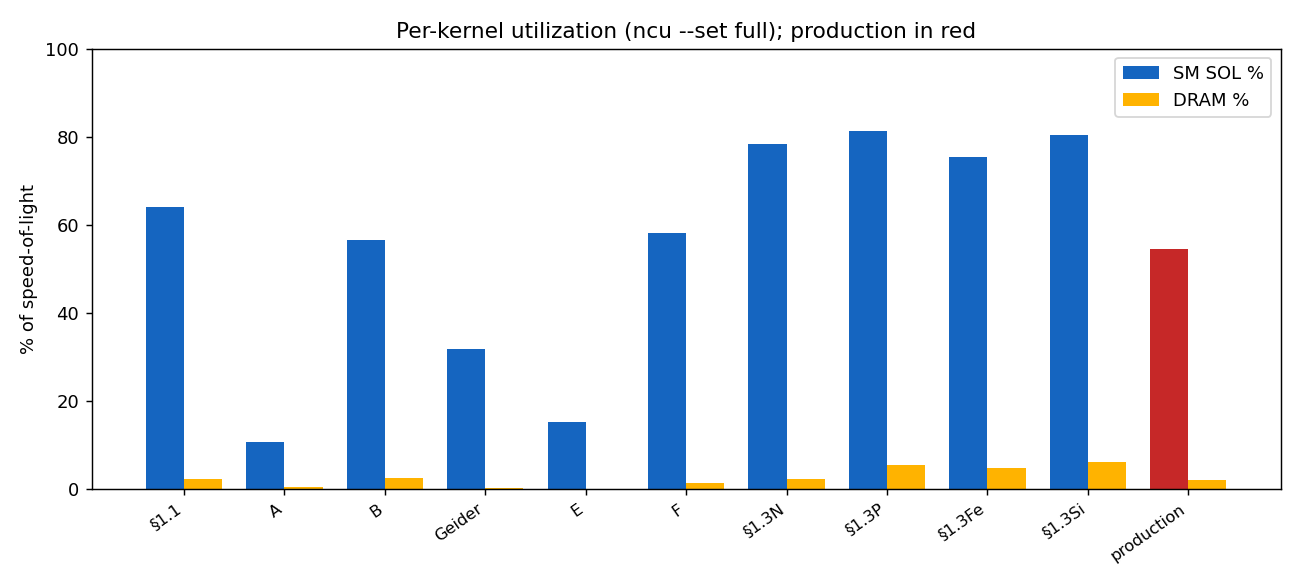
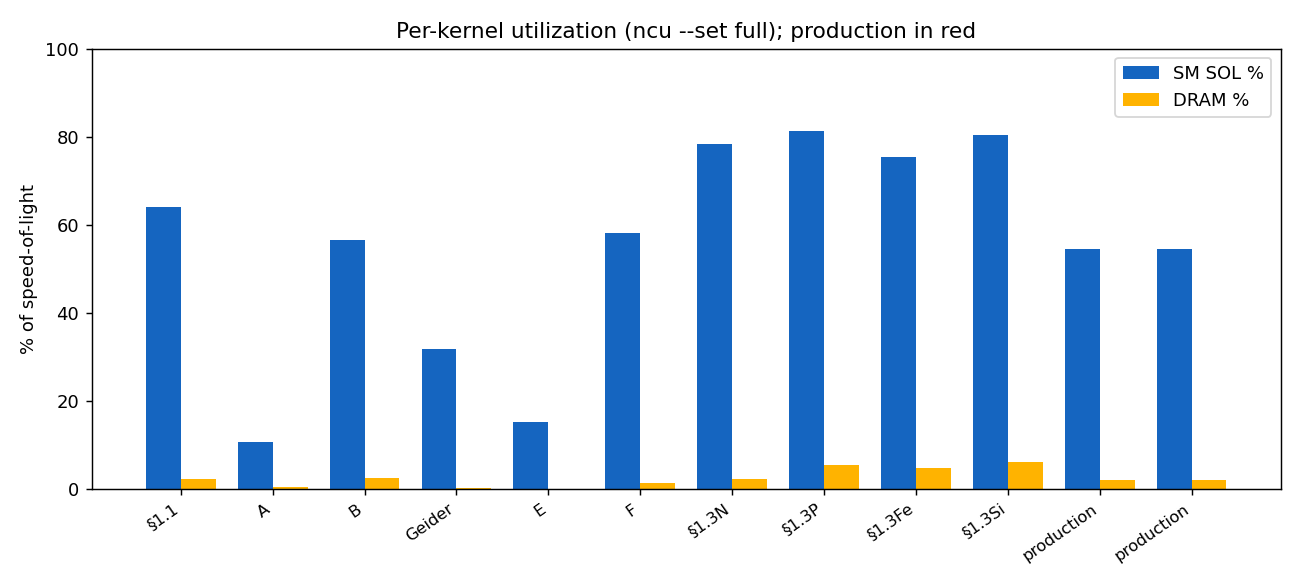
make_figs.py: infer ported-ness from data (per-era correct figures) — fixes s2_production figs
Bug introduced last commit: regenerating s2_production figs with the zoo-era
config (PORTED_SECTIONS += zooplankton) wrongly marked zoo as a green "ported
win" in the PRODUCTION-era figure, where zoo actually ran on CPU (+8% slower).

Root cause: PORTED_SECTIONS was GLOBAL config, but each archive dir is a
historical snapshot. Fix: a section is "ported" iff GPU/CPU < 0.7, INFERRED FROM
THE SPEED DATA. Now each archive's figure self-reflects its own era —
s2_production correctly shows zoo un-ported; s2_zoo shows it ported. No global
list to drift. Verified both: s2_production (growth 4.64×, prod 7.84×, zoo +8%
un-ported), s2_zoo (growth 4.40×, zoo 8.37×, prod 7.37×).

diff --git a/profiling/make_figs.py b/profiling/make_figs.py
@@ -31,10 +31,12 @@ SECTION_MAP = {
     # archive's CSV (profiled at its line of the day) still resolves: §2 prod=F1L4707, post-zoo=F1L4748
     "F1L4707": "production", "F1L4748": "production",
 }
-HIGHLIGHT = "zoo"                # the kernel this PR adds
-# Which mpp_clock sections are ON GPU so far (grows by one PR each port). Names match parse_speed's keys.
-# Un-ported sections still run on CPU in the GPU build -> expected flat/slower, NOT a win.
-PORTED_SECTIONS = {"phytoplankton growth", "production loop", "zooplankton"}
+HIGHLIGHT = "zoo"                # the kernel this PR adds (cosmetic: which SOL bar is red)
+# A section is "ported" iff its GPU time is well below CPU. INFERRED FROM THE DATA (not a global list) so
+# each archive's figure reflects ITS OWN era — e.g. s2_production's fig correctly shows zoo as un-ported,
+# while s2_zoo's shows it ported. Ported sections run 4-8x (ratio ~0.1-0.25); un-ported are flat/slower (~1+).
+PORTED_RATIO = 0.7
+def is_ported(cpu, gpu): return bool(cpu) and gpu/cpu < PORTED_RATIO
 # Attention thresholds (the review discipline: every port flags what needs work)
 NOISE_PCT   = 5.0    # un-ported section slower than CPU by > this % on the GPU build -> flag
 LOW_SOL_PCT = 35.0   # kernel SM-SOL below this -> under-utilized, flag for tuning
@@ -110,7 +112,7 @@ def fig_speed(speed, outdir):
     ax.bar([i-w/2 for i in x], cpu, w, label="CPU", color="#9aa7b4")
     # ported sections = solid green (a real GPU win); un-ported = hatched grey (still CPU, context only)
     for i, k in enumerate(labels):
-        ported = k in PORTED_SECTIONS
+        ported = is_ported(cpu[i], gpu[i])
         ax.bar(i+w/2, gpu[i], w, color="#2e7d32" if ported else "#cfd6dd",
                hatch=None if ported else "//", edgecolor="#7a8590" if not ported else None)
         r = gpu[i]/cpu[i] if cpu[i] else 1
@@ -172,7 +174,7 @@ def attention_report(speed, det, outdir):
     lines.append("## Un-ported sections slower on the GPU build (still CPU; watch as we port more)")
     any1 = False
     for k, (c, g) in speed.items():
-        if k in PORTED_SECTIONS:
+        if is_ported(c, g):
             lines.append(f"  - {k:24s} {c/g:5.2f}× FASTER  (ported ✓)"); continue
         pct = (g/c - 1)*100 if c else 0
         if pct > NOISE_PCT:
